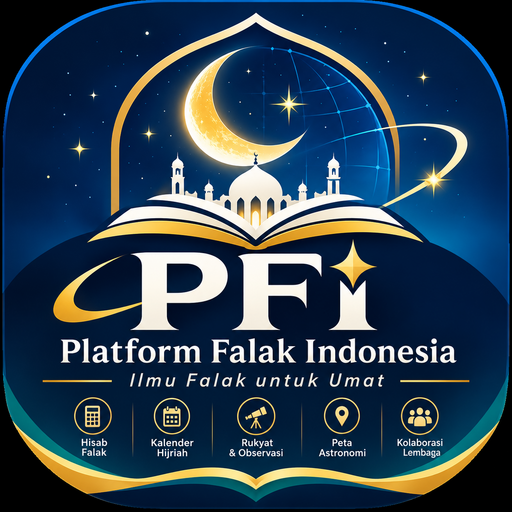
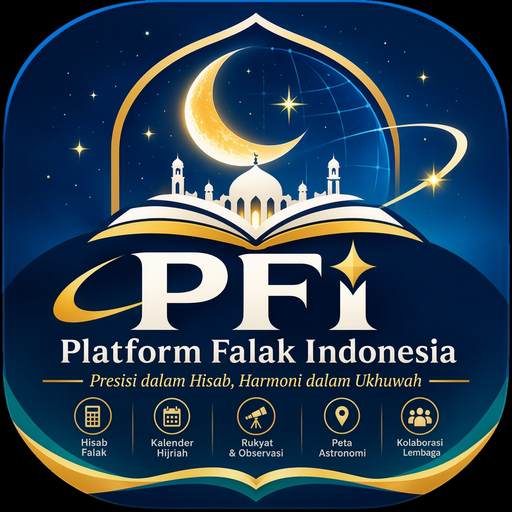
Adopt official PFI slogan

diff --git a/src/lib/export.js b/src/lib/export.js
@@ -17,7 +17,7 @@ export function resultRows(r,lang='id'){
 export async function exportReport(r,lang='id',format='pdf'){const rows=resultRows(r,lang),title=lang==='id'?'Laporan Hisab Awal Bulan':'Lunar Month Calculation',file=`PFI-Hisab-${r.period.year}-${r.period.month}-${r.loc.city}`,note=lang==='id'?'Prediksi astronomis, bukan penetapan resmi awal bulan.':'Astronomical prediction, not an official month declaration.';if(format==='png'){const can=document.createElement('canvas');can.width=1250;can.height=Math.max(1060,320+rows.length*57);const c=can.getContext('2d');c.fillStyle='#f6f7f8';c.fillRect(0,0,can.width,can.height);c.fillStyle='#101d36';c.fillRect(0,0,1250,180);c.fillStyle='#d6ae62';c.font='bold 18px Arial';c.fillText('PLATFORM FALAK INDONESIA',54,58);c.fillStyle='#ffffff';c.font='bold 39px Arial';c.fillText(title,54,121);rows.forEach(([a,b],i)=>{c.fillStyle='#747f8e';c.font='22px Arial';c.fillText(a,54,240+i*57);c.fillStyle='#16273e';c.font='bold 22px Arial';c.fillText(b,445,240+i*57);c.fillStyle='#dce1e8';c.fillRect(54,255+i*57,1140,1)});c.font='20px Arial';c.fillStyle='#726040';c.fillText(note,54,290+rows.length*57);return new Promise(resolve=>can.toBlob(b=>{download(b,file+'.png');resolve();},'image/png'));}
  const{jsPDF}=await import('jspdf');const pdf=new jsPDF();
  const logoBytes=await fetch('/images/pfi-brand.png').then(async response=>response.ok?new Uint8Array(await response.arrayBuffer()):null).catch(()=>null);
- const header=()=>{pdf.setFillColor(5,22,43);pdf.rect(0,0,210,49,'F');pdf.setFillColor(8,58,91);pdf.rect(0,43,210,6,'F');pdf.setFillColor(205,157,53);pdf.rect(0,43,210,1.2,'F');if(logoBytes)pdf.addImage(logoBytes,'PNG',14,6,36,36,undefined,'FAST');pdf.setTextColor(226,184,79);pdf.setFontSize(8);pdf.setFont('helvetica','bold');pdf.text('PLATFORM FALAK INDONESIA',logoBytes?58:18,14);pdf.setTextColor(139,175,205);pdf.setFontSize(7);pdf.setFont('helvetica','normal');pdf.text(lang==='id'?'ILMU FALAK UNTUK UMAT':'FALAK SCIENCE FOR THE COMMUNITY',logoBytes?58:18,20);pdf.setTextColor(255);pdf.setFontSize(20);pdf.setFont('helvetica','bold');pdf.text(title,logoBytes?58:18,34);pdf.setFont('helvetica','normal');};
+ const header=()=>{pdf.setFillColor(5,22,43);pdf.rect(0,0,210,49,'F');pdf.setFillColor(8,58,91);pdf.rect(0,43,210,6,'F');pdf.setFillColor(205,157,53);pdf.rect(0,43,210,1.2,'F');if(logoBytes)pdf.addImage(logoBytes,'PNG',14,6,36,36,undefined,'FAST');pdf.setTextColor(226,184,79);pdf.setFontSize(8);pdf.setFont('helvetica','bold');pdf.text('PLATFORM FALAK INDONESIA',logoBytes?58:18,14);pdf.setTextColor(139,175,205);pdf.setFontSize(7);pdf.setFont('helvetica','normal');pdf.text(lang==='id'?'PRESISI DALAM HISAB, HARMONI DALAM UKHUWAH':'PRECISION IN HISAB, HARMONY IN UKHUWAH',logoBytes?58:18,20);pdf.setTextColor(255);pdf.setFontSize(20);pdf.setFont('helvetica','bold');pdf.text(title,logoBytes?58:18,34);pdf.setFont('helvetica','normal');};
  header();let y=65;
  for(const[a,b]of rows){pdf.setFontSize(10);const valueLines=pdf.splitTextToSize(b.replaceAll('·',' | '),110),rowHeight=Math.max(10.3,valueLines.length*4.5+4);if(y+rowHeight>257){pdf.addPage();header();y=65;}pdf.setTextColor(95,105,121);pdf.text(a,18,y);pdf.setTextColor(24,38,61);pdf.text(valueLines,79,y);pdf.setDrawColor(223,228,235);pdf.line(18,y+rowHeight-4,192,y+rowHeight-4);y+=rowHeight;}
  const notes=lang==='id'?'Koordinat WGS84. Tinggi: pusat Bulan toposentris dengan refraksi standar. Elongasi: sudut pusat Bulan dan Matahari geosentris. Pengamatan pada terbenam Matahari pertama setelah ijtimak. Waktu disimpan dalam UTC, ditampilkan menurut zona lokasi.':'WGS84 site. Altitude: topocentric lunar centre, standard refraction. Elongation: geocentric Sun-Moon separation. Evaluated at the first local sunset after conjunction. UTC times are displayed in the site time zone.';
